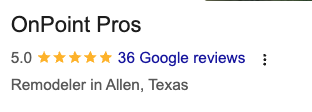
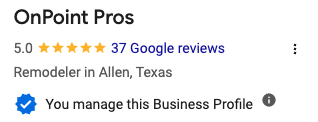
Swap the Allen listing screenshot for the current one
Same listing, 37 reviews rather than 36, and it now carries the
manage-this-profile badge like the other. Both frames prove ownership
instead of only existence. Caption total updated to 104.

diff --git a/index.html b/index.html
@@ -696,14 +696,14 @@
     </blockquote>
     <figure class="receipt" style="margin:0">
       <div class="shots">
-        <img width="312" height="112" loading="lazy" decoding="async"
-          alt="Google listing for OnPoint Pros: 5.0 stars, 36 Google reviews, Remodeler in Allen, Texas."
[1 lines of base64/hex data omitted]
+        <img width="318" height="122" loading="lazy" decoding="async"
+             alt="Google listing for OnPoint Pros: 5.0 stars, 37 Google reviews, Remodeler in Allen, Texas, marked as a business profile we manage."
[1 lines of base64/hex data omitted]
         <img width="244" height="95" loading="lazy" decoding="async"
              alt="Google listing for OnPoint Pros: 5.0 stars, 67 Google reviews, Remodeler, marked as a business profile we manage."
[1 lines of base64/hex data omitted]
       </div>
-      <figcaption>Two listings, <b>103 five star reviews</b> between them and nothing below five. Screenshots, not badges. Look it up.</figcaption>
+      <figcaption>Two listings, <b>104 five star reviews</b> between them and nothing below five. Screenshots, not badges. Look it up.</figcaption>
     </figure>
   </div>
 </div>
